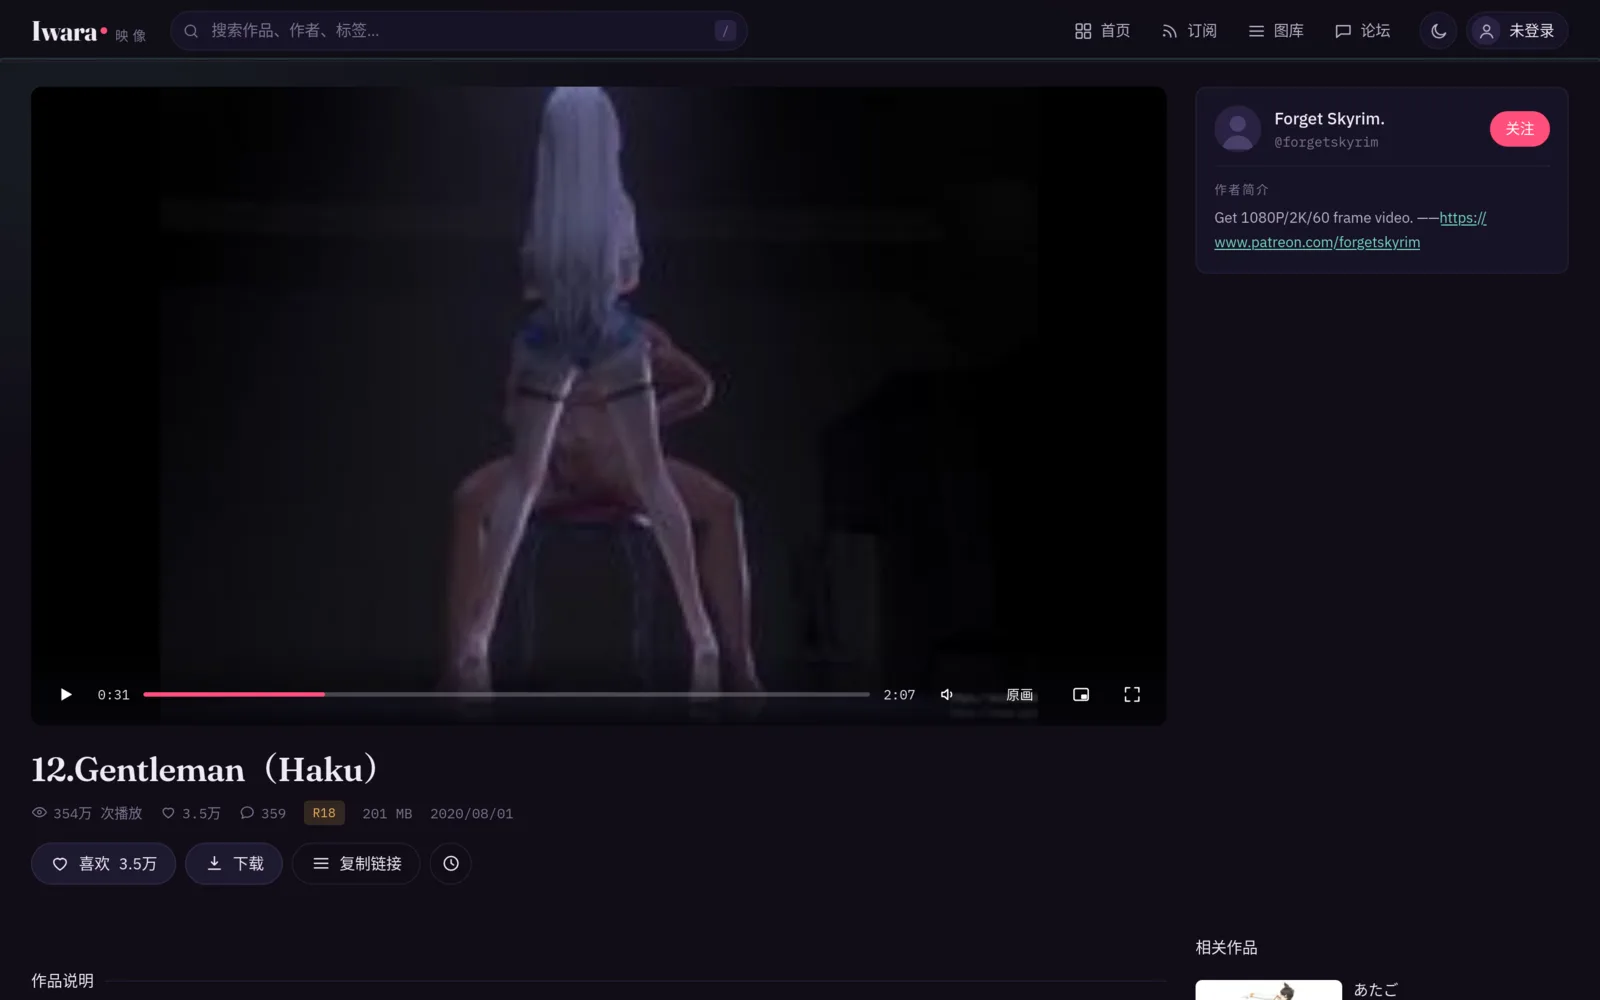
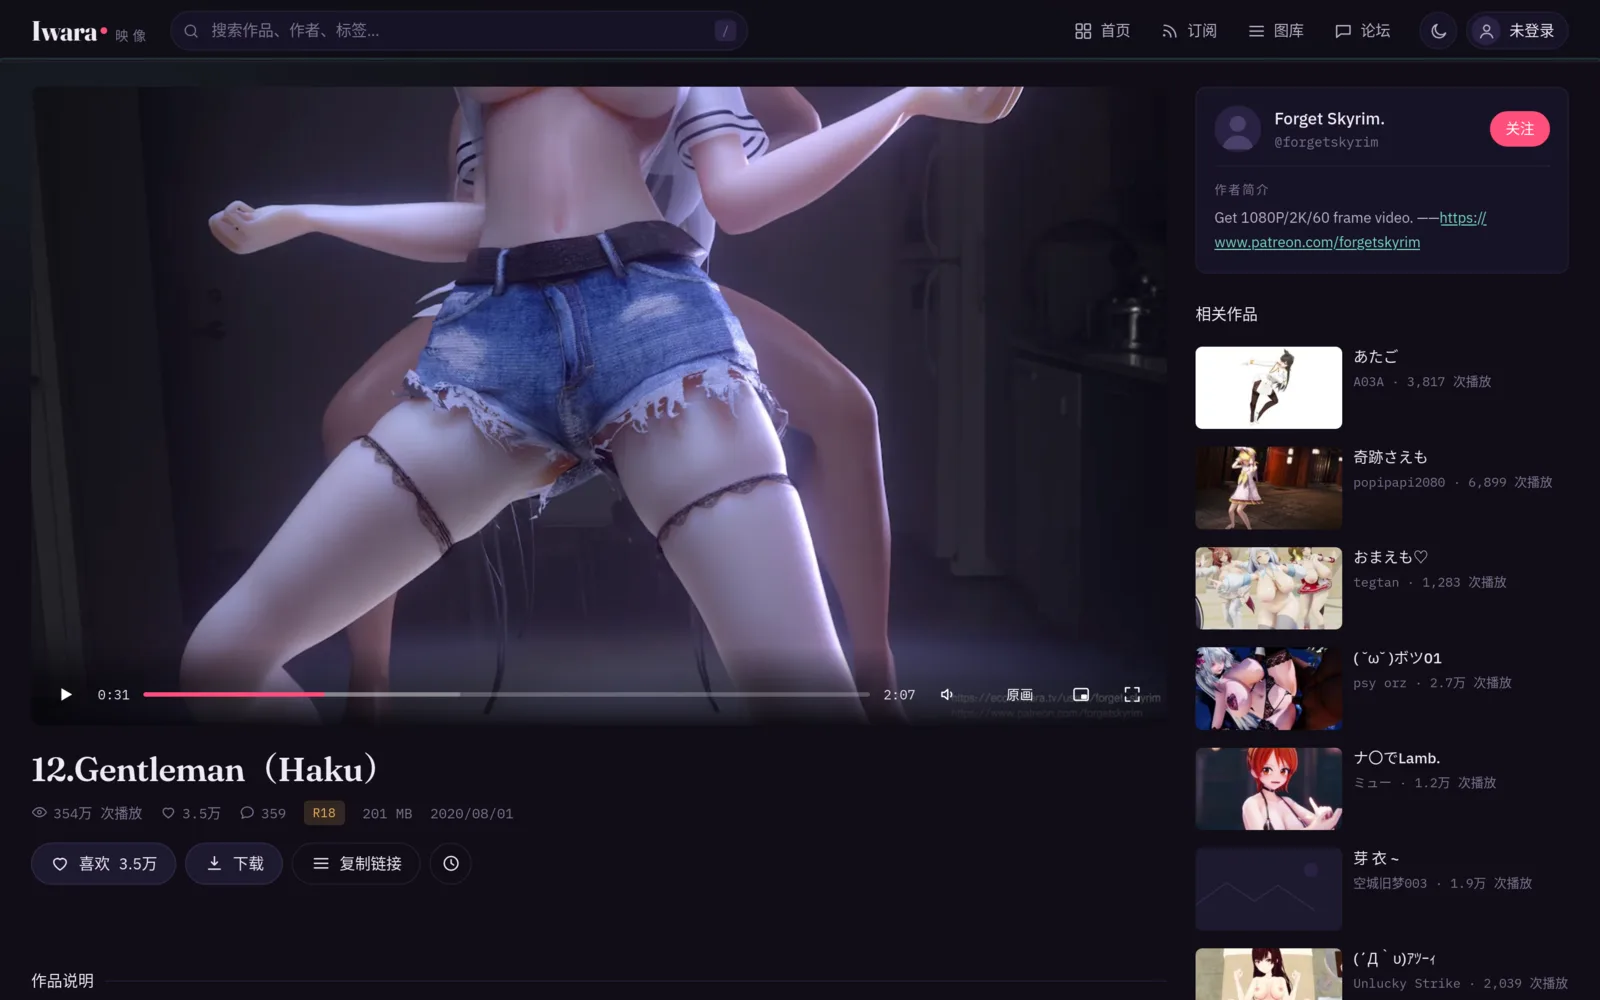
fix: 播放页右栏作者与相关作品间距；feat: 搜索排序
播放页桌面端间距（截图里发现的真实缺陷）：
- 作者卡与相关作品之间空出约 600px。原因是 5 个块共用同一套网格行，
  右栏的「相关作品」必须等左栏第一行（播放器+标题，高达 738px）结束才开始。
- 改为两栏各自成正常文档流（作者卡下方只剩 26px 正常间距）；
  手机端给两栏 display:contents，5 块重新成为网格项，
  仍按 areas 排成「视频→作者→说明→评论→相关」。

搜索排序（对齐参考客户端的 FilterConfig）：
- 视频/图库：最新、相关性、观看次数、点赞数
- 作者/帖子/论坛：最新、相关性
- 排序写进地址栏（&sort=），翻页与分享都保留
- 按板块收窄：上游对不支持的排序值不报错、只静默按默认排，
  不过滤会让用户以为「选了没生效」

截图全部重做（含修复后的播放页）；顺带修 dev-server 未读取
IWARA_AUTHORIZATION 的问题，便于本地验证搜索

diff --git a/public/js/views/search.js b/public/js/views/search.js
@@ -45,6 +45,53 @@ function normalizeType(value) {
   return TYPE_ALIASES[raw] || (TYPES.some((t) => t.id === raw) ? raw : 'videos');
 }
 
+/**
+ * 各搜索板块支持的排序方式。
+ *
+ * 取值与 Iwara 上游一致（对齐参考客户端的 FilterConfig）：
+ * - 视频 / 图库：date（最新）、relevance（相关性）、views（观看次数）、likes（点赞数）
+ * - 作者 / 帖子 / 论坛：只有 date 与 relevance
+ * 传上游不认的值不会报错，只会静默按默认排序，所以这里按板块收窄。
+ */
+const SORT_BY_TYPE = {
+  videos: [
+    { id: 'date', label: '最新' },
+    { id: 'relevance', label: '相关性' },
+    { id: 'views', label: '观看次数' },
+    { id: 'likes', label: '点赞数' }
+  ],
+  images: [
+    { id: 'date', label: '最新' },
+    { id: 'relevance', label: '相关性' },
+    { id: 'views', label: '观看次数' },
+    { id: 'likes', label: '点赞数' }
+  ],
+  users: [
+    { id: 'date', label: '最新' },
+    { id: 'relevance', label: '相关性' }
+  ],
+  posts: [
+    { id: 'date', label: '最新' },
+    { id: 'relevance', label: '相关性' }
+  ],
+  forum: [
+    { id: 'date', label: '最新' },
+    { id: 'relevance', label: '相关性' }
+  ]
+};
+
+const DEFAULT_SORT = 'date';
+
+function sortsFor(type) {
+  return SORT_BY_TYPE[type] || SORT_BY_TYPE.videos;
+}
+
+/** 归一 sort 参数：不属于该板块就退回默认值。 */
+function normalizeSort(value, type) {
+  const raw = String(value || '').trim();
+  return sortsFor(type).some((o) => o.id === raw) ? raw : DEFAULT_SORT;
+}
+
 // 键与 TYPES 的 id 一致（复数）
 const EMPTY = {
   videos: {
@@ -240,6 +287,8 @@ export async function renderSearch(ctx) {
   // 统一成上游要求的复数形式（videos / images / users / posts / forum）
   const type = normalizeType(ctx.query.get('type'));
   const typeMeta = TYPES.find((t) => t.id === type) || TYPES[0];
+  const sort = normalizeSort(ctx.query.get('sort'), type);
+  const sortLabel = sortsFor(type).find((o) => o.id === sort)?.label || '';
 
   const session = getSession();
   const inlineToken = String(getSetting('token') || '').trim();
@@ -252,7 +301,7 @@ export async function renderSearch(ctx) {
     eyebrow: 'SEARCH',
     title: query ? `“${query}”` : '搜索',
     desc: query
-      ? `正在按${typeMeta.label}搜索。`
+      ? `正在按${typeMeta.label}搜索${sortLabel ? `，按${sortLabel}排序` : ''}。`
       : '输入作品标题、作者名或标签。搜索接口在上游要求认证，未登录时用不了。'
   });
   head.append(countNode);
@@ -271,7 +320,8 @@ export async function renderSearch(ctx) {
       router.navigate('/search');
       return;
     }
-    router.navigate(`/search?q=${encodeURIComponent(value)}&type=${type}`);
+    const params = new URLSearchParams({ q: value, type, sort });
+    router.navigate(`/search?${params.toString()}`);
   };
   form.addEventListener('submit', onSubmit);
   ctx.onCleanup(() => form.removeEventListener('submit', onSubmit));
@@ -281,8 +331,22 @@ export async function renderSearch(ctx) {
     const params = new URLSearchParams();
     if (query) params.set('q', query);
     params.set('type', option.id);
+    // 切板块时带上当前排序；新板块不支持时 normalizeSort 会退回默认值
+    params.set('sort', normalizeSort(sort, option.id));
     chips.append(
       tpl`<a class="chip ${option.id === type ? 'is-on' : ''}" href="#/search?${params.toString()}">${option.label}</a>`
+    );
+  }
+
+  /* 排序 chips：只列当前板块支持的排序方式（上游对不支持的值会静默忽略） */
+  const sortChips = tpl`<div class="chips chips--scroll search__sorts"></div>`;
+  for (const option of sortsFor(type)) {
+    const params = new URLSearchParams();
+    if (query) params.set('q', query);
+    params.set('type', type);
+    params.set('sort', option.id);
+    sortChips.append(
+      tpl`<a class="chip ${option.id === sort ? 'is-on' : ''}" href="#/search?${params.toString()}">${option.label}</a>`
     );
   }
 
@@ -307,13 +371,15 @@ export async function renderSearch(ctx) {
     const feed = renderPagedFeed({
       page,
       columns: type === 'users' ? 'grid--people' : isRow ? 'rowlist' : '',
-      hrefFor: (target) =>
-        `#/search?q=${encodeURIComponent(query)}&type=${type}&page=${target + 1}`,
+      hrefFor: (target) => {
+        const params = new URLSearchParams({ q: query, type, sort, page: String(target + 1) });
+        return `#/search?${params.toString()}`;
+      },
       emptyTitle: EMPTY[type].title,
       emptyMessage: EMPTY[type].message,
       render: (item) => resultNode(item, type),
       fetchPage: async (target, limit) => {
-        const data = await search({ query, type, page: target, limit });
+        const data = await search({ query, type, sort, page: target, limit });
         if (target === 0) {
           const count = Number(data?.count);
           countNode.replaceChildren(
@@ -326,5 +392,5 @@ export async function renderSearch(ctx) {
     body.append(feed);
   }
 
-  return tpl`<div>${head}${form}${chips}${body}</div>`;
+  return tpl`<div>${head}${form}${chips}${sortChips}${body}</div>`;
 }

diff --git a/public/css/app.css b/public/css/app.css
@@ -1066,36 +1066,23 @@ select.input {
 .watch {
   display: grid;
   grid-template-columns: minmax(0, 1fr) 336px;
-  /* 桌面：左列 播放/详情/评论，右列 作者/相关。
-     五个块是同级元素，手机端靠同一套 areas 换成单列顺序。 */
-  grid-template-areas:
-    'head    author'
-    'details related'
-    'comments related';
-  grid-template-rows: auto auto 1fr;
-  gap: 26px 26px;
+  gap: 26px;
   align-items: start;
 }
 
-.watch__head-block {
-  grid-area: head;
-}
-
-.watch__author {
-  grid-area: author;
-}
-
-.watch__details {
-  grid-area: details;
+/* 两栏各自成流：右栏的「作者卡」和「相关作品」自然上下紧挨，
+   不会被左栏的行高顶开（早期版本让 5 块共用网格行，作者卡下方空出约 600px）。 */
+.watch__col {
+  display: flex;
+  flex-direction: column;
+  gap: 26px;
   min-width: 0;
 }
 
+.watch__head-block,
+.watch__details,
 .watch__comments {
-  grid-area: comments;
-}
-
-.watch__related {
-  grid-area: related;
+  min-width: 0;
 }
 
 .player {
@@ -2054,6 +2041,28 @@ main.is-loading {
   transition: opacity 0.15s var(--ease);
 }
 
+/* ---------------------------------------------------------------- 搜索排序 */
+
+/* 排序是第二级筛选，与类型 chips 之间拉开距离并弱化一点，
+   避免两组胶囊看起来是同一层级。 */
+.search__sorts {
+  margin-top: -8px;
+  padding-top: 0;
+}
+
+.search__sorts .chip {
+  height: 28px;
+  padding: 0 11px;
+  font-size: 12.5px;
+  border-color: transparent;
+  background: var(--ink-1);
+}
+
+.search__sorts .chip.is-on {
+  background: var(--paper);
+  color: var(--ink);
+}
+
 /* ---------------------------------------------------------------- 分页条 */
 
 .pager {
@@ -2396,7 +2405,9 @@ main.is-loading {
   .watch {
     grid-template-columns: minmax(0, 1fr);
     /* 手机端顺序（按一路往下滑的阅读习惯）：
-       视频 → 标题 → 作者 → 作品详情 → 评论 → 相关作品 */
+       视频 → 标题 → 作者 → 作品详情 → 评论 → 相关作品
+       两栏 display:contents 后，5 块直接成为 .watch 的网格项，
+       就能用 areas 跨栏重排（作者提到详情之前、评论插在相关之前）。 */
     grid-template-areas:
       'head'
       'author'
@@ -2405,6 +2416,30 @@ main.is-loading {
       'related';
     grid-template-rows: auto;
     gap: 20px;
+  }
+
+  .watch__col {
+    display: contents;
+  }
+
+  .watch__head-block {
+    grid-area: head;
+  }
+
+  .watch__author {
+    grid-area: author;
+  }
+
+  .watch__details {
+    grid-area: details;
+  }
+
+  .watch__comments {
+    grid-area: comments;
+  }
+
+  .watch__related {
+    grid-area: related;
   }
 }
 

diff --git a/public/js/views/watch.js b/public/js/views/watch.js
@@ -391,7 +391,29 @@ async function load(ctx, id, root, holder) {
 
   const commentsBlock = tpl`<div class="watch__comments">${commentPanel}</div>`;
 
-  const layout = tpl`<div class="watch">${headBlock}${authorPanel}${detailsBlock}${commentsBlock}${relatedPanel}</div>`;
+  /* 结构：
+       .watch
+         .watch__col--main   左栏（head / details / comments）
+         .watch__col--side   右栏（author / related）
+
+     桌面时两栏各自是正常文档流，作者卡和相关作品紧挨着；
+     如果让这 5 块直接当网格项、共用同一套行，右栏就会被左栏的行高顶开
+     ——播放器 + 标题那一行很高，导致作者卡下方空出几百像素（踩过）。
+
+     手机时给两栏加 display:contents，5 块就变成 .watch 的网格项，
+     再用 grid-template-areas 排成「视频→作者→说明→评论→相关」。 */
+  const layout = tpl`
+    <div class="watch">
+      <div class="watch__col watch__col--main">
+        ${headBlock}
+        ${detailsBlock}
+        ${commentsBlock}
+      </div>
+      <div class="watch__col watch__col--side">
+        ${authorPanel}
+        ${relatedPanel}
+      </div>
+    </div>`;
   root.replaceChildren(layout);
 
   /* ---------------- 快捷键以外的收尾 ---------------- */

diff --git a/AGENTS.md b/AGENTS.md
@@ -208,6 +208,16 @@ following: { id, createdAt, user:     { name, username, avatar, ... } }
 3. `canSearch` 要把服务端共享 Token 算进去（`session.sharedToken`），
    否则配了 `IWARA_AUTHORIZATION` 前端仍显示「需要登录」。
 
+**排序**按板块收窄（对齐参考客户端的 FilterConfig）：
+
+| 板块 | 可排序 |
+| :-- | :-- |
+| videos / images | `date`（最新）、`relevance`（相关性）、`views`（观看次数）、`likes`（点赞数） |
+| users / posts / forum | `date`、`relevance` |
+
+传上游不认的排序值**不会报错**，只会静默按默认排序，所以必须按板块过滤，
+否则用户切板块后会看到「选了观看次数但顺序没变」的假象。默认 `date`。
+
 Wrangler 部署注意：`IWARA_AUTHORIZATION` 用 `wrangler secret put` 配置，
 **不能**同时写进 `wrangler.jsonc` 的 `vars`（同名会报 `Binding name already in use`）。
 

diff --git a/README.md b/README.md
@@ -62,7 +62,7 @@
 | 播放列表 · 作者页 | 列表与详情；作者的作品 / 图库 / 粉丝 / 关注，可关注取关 |
 | 论坛 · 帖子 | 只读浏览 |
 | 评论区 | 阅读与发表（登录后）；条目多时自动分页，每页 20 条 |
-| 搜索 | 视频 / 图库 / 作者 / 论坛 / 帖子，**需登录**（上游接口要求认证） |
+| 搜索 | 视频 / 图库 / 作者 / 帖子 / 论坛，支持最新·相关性·观看次数·点赞数排序，**需登录**（上游接口要求认证） |
 | 订阅 | 只看关注的作者，**需登录**（未登录时上游会静默忽略该条件） |
 | 收藏 · 观看历史 | 收藏需登录；历史存在本机，含续播进度，可逐条删除 |
 | 账号登录 | 邮箱密码登录，Token 加密存放在 HttpOnly Cookie 里 |
